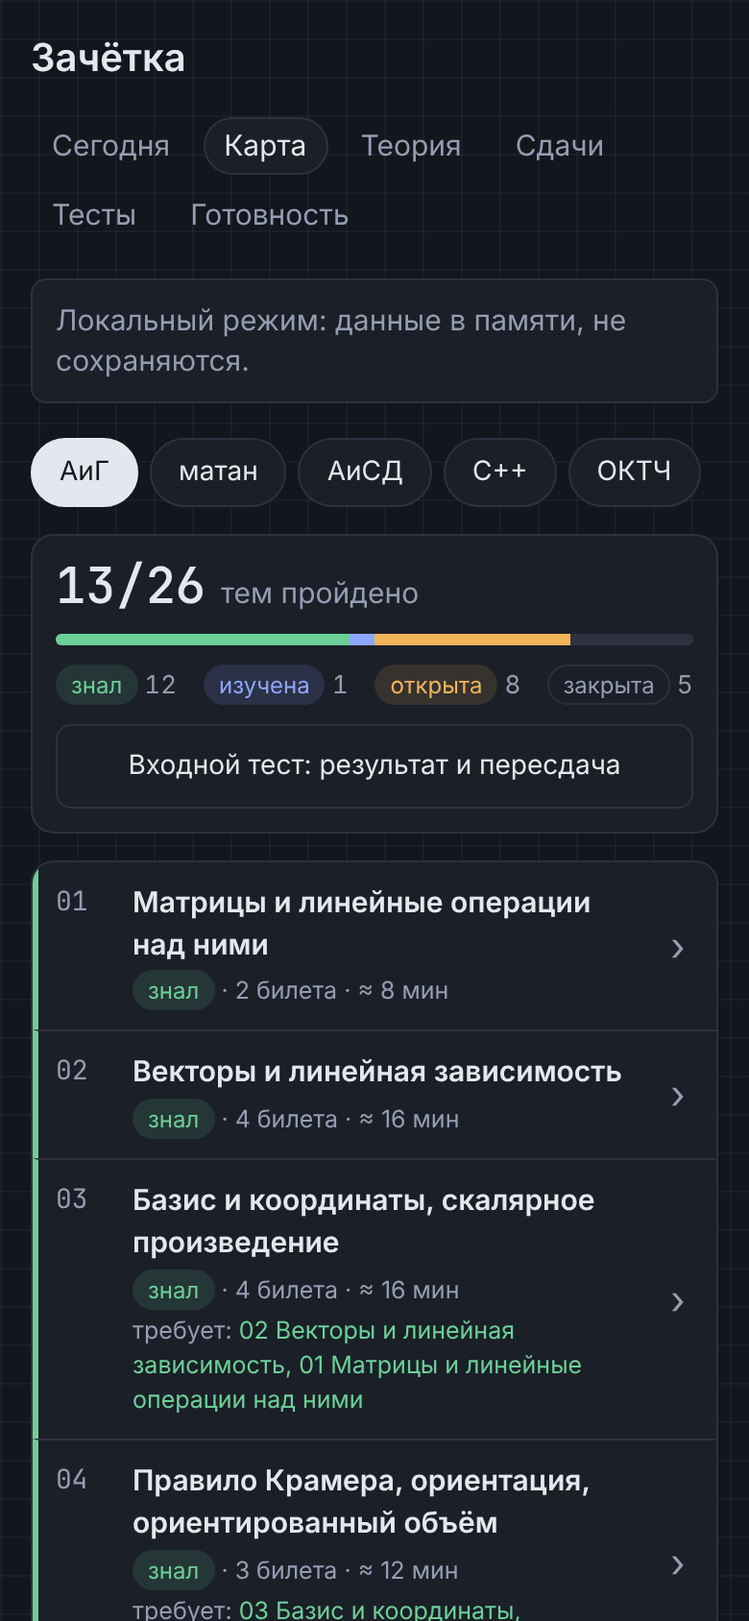
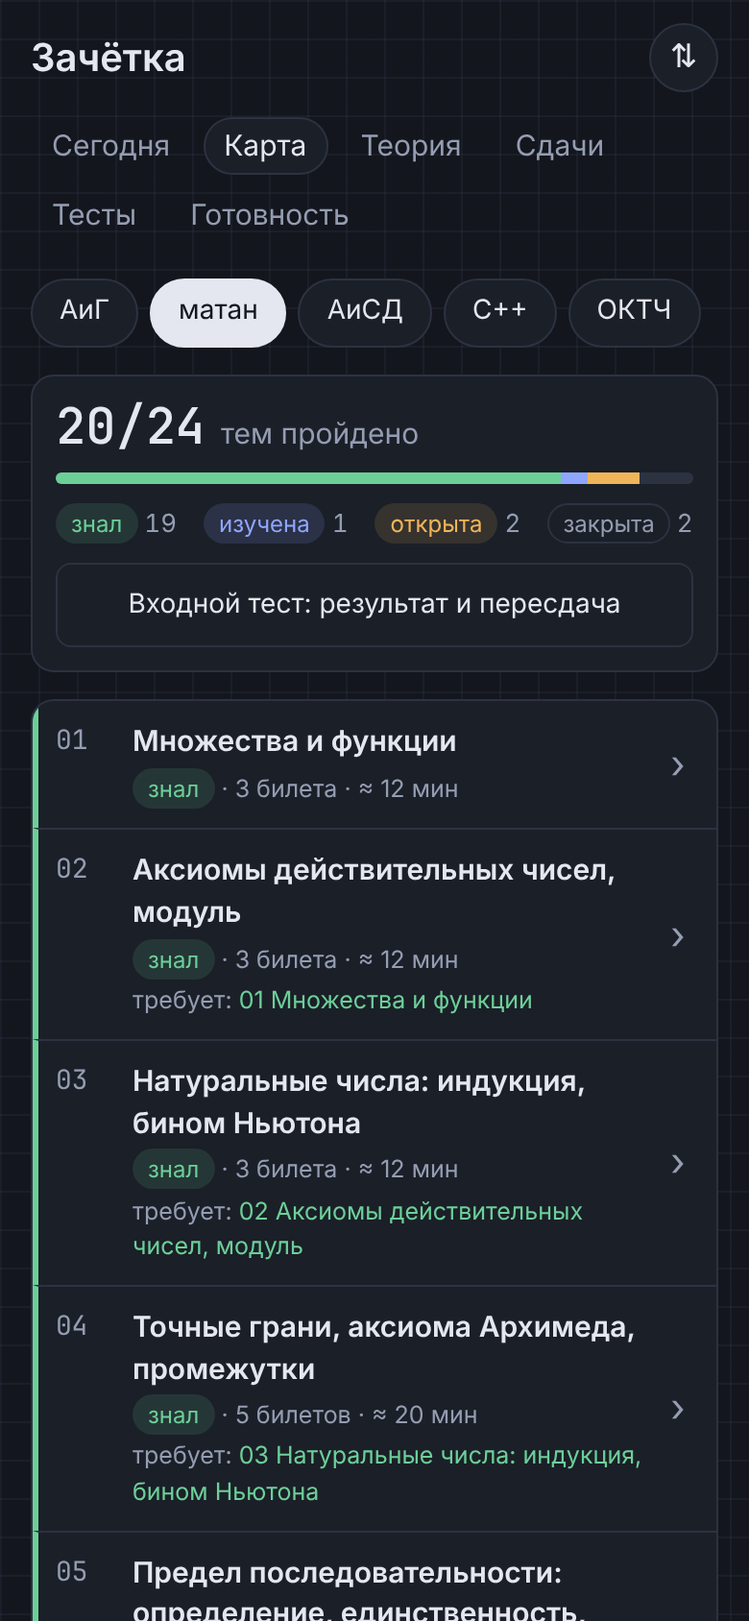
Документы: промпт пакета с графом и пулом, README, CHANGELOG, снимки экрана
Claude-Session: https://claude.ai/code/session_01CMDmwzuscEEjika96w1VCb

diff --git a/docs/pack-prompt.md b/docs/pack-prompt.md
@@ -1,12 +1,12 @@
 # Промпт: файлы пакета из своих материалов любой LLM
 
-Готовый текст для любой модели (ChatGPT, Gemini, DeepSeek, Claude, локальная — неважно): вы даёте ей формат и свои материалы по **одному предмету**, она выдаёт файлы `tickets/`, `cards/`, `tests/`, `items/`, `theory/`. Формат подробно — [pack-format.md](pack-format.md).
+Готовый текст для любой модели (ChatGPT, Gemini, DeepSeek, Claude, локальная — неважно): вы даёте ей формат и свои материалы по **одному предмету**, она выдаёт файлы `tickets/`, `graph/`, `cards/`, `tests/`, `items/`, `theory/`. Формат подробно — [pack-format.md](pack-format.md).
 
 ## Как пользоваться
 
 1. Добавьте предмет в `pack.yaml` своего пакета: `- { id: <id>, name: <название> }` (id — латиница, например `combi`).
 2. Соберите материалы предмета в один текст: программу экзамена (список вопросов), конспект или его часть, список заданий со сроками. Чем точнее программа, тем лучше билеты.
-3. Скопируйте промпт ниже, впишите в начало id пакета и предмета, после него вставьте материалы. Большой конспект лучше давать частями: сначала программа → билеты, потом по нескольку билетов → карточки, тесты и теорию.
+3. Скопируйте промпт ниже, впишите в начало id пакета и предмета, после него вставьте материалы. Большой конспект лучше давать частями: сначала программа → билеты и граф тем, потом по нескольку билетов → карточки, тесты и теорию.
 4. Ответ модели — файлы в виде `=== путь ===` и содержимое. Сохраните каждый в `packs/<пакет>/<путь>`.
 5. `npm run check:pack` — и, если есть ошибки, отправьте их той же модели: «Исправь, выдай только изменённые файлы целиком».
 6. Прочитайте результат сами: модель ошибается в фактах. Эталоны тестов и ответы карточек сверяйте с конспектом.
@@ -18,6 +18,8 @@
 
 Выдай файлы строго в таком виде, без пояснений между ними:
 === tickets/<предмет>.yaml ===
+<содержимое>
+=== graph/<предмет>.yaml ===
 <содержимое>
 === cards/<предмет>/01.md ===
 <содержимое>
@@ -62,26 +64,44 @@ tickets: [<предмет>-t-01, <предмет>-t-02]
 Сформулируйте теорему Лагранжа.
 ---
 Порядок подгруппы конечной группы делит порядок группы.
-Карточка: «## id · билеты», вопрос, строка из трёх дефисов, ответ. Пустая строка между карточками. Билеты — только из tickets/<предмет>.yaml.
+Карточка: «## id · билеты», вопрос, строка из трёх дефисов, ответ. Пустая строка между карточками. Билеты — только из tickets/<предмет>.yaml. У предмета с графом колоду и порядок карточек в Anki задаёт тема первого билета карточки, поле deck остаётся обязательным, но не используется.
 
-4) tests/<предмет>/<имя>.md — тест. Начни с входного теста по всем билетам (kind: entry), по 1–2 вопроса на билет:
+4) graph/<предмет>.yaml — граф тем: что за чем учить. По нему приложение задаёт короткий входной тест, строит план дня и нумерует колоды Anki.
+topics:
+  - id: <предмет>-g-groups
+    title: "Группы: определение и примеры"
+    tickets: [<предмет>-t-01, <предмет>-t-02, <предмет>-t-03]
+  - id: <предмет>-g-lagrange
+    title: "Смежные классы, теорема Лагранжа"
+    tickets: [<предмет>-t-04, <предмет>-t-05]
+    requires: [<предмет>-g-groups]
+- Тема — 3–8 соседних билетов, которые учатся за один присест. Каждый билет предмета стоит ровно в одной теме. Темы пиши в порядке изучения, билеты внутри темы — тоже.
+- requires — id тем (не билетов), без которых эту тему не понять; только прямые зависимости, без циклов. В title нельзя «::».
+- Ребро ставь только там, где тема действительно опирается на другую (пользуется её определением или теоремой). Не ставь ребро «для связности» или потому, что темы идут подряд в программе: по ответу на один вопрос приложение считает известными все темы, от которых зависит тема вопроса, а при плохом ответе — неизвестными все темы, которые зависят от неё. Тема без requires — это нормально.
+
+5) tests/<предмет>/<предмет>-entry.md — входной пул (kind: entry). Это не тест, который проходят подряд: приложение задаёт из него не больше 8 вопросов, выбирая темы по графу. Вопрос относится к теме через свой ticket.
 ---
 id: <предмет>-entry
 title: "<Название> — входной тест"
 kind: entry
-minutes: 60
 ---
 ## <предмет>-q-001
 ticket: <предмет>-t-01 · level: L0
 Дайте определение группы.
 ### Эталон
-- множество с бинарной операцией
-- ассоциативность
-- нейтральный элемент
-- обратный к каждому элементу
-Уровни: L0 — определение или формулировка; L1 — формулировка с условиями, простой пример или следствие; L2 — доказательство (только в тестах kind: ticket или topic). Эталон — 2–6 пунктов «что должно быть в хорошем ответе», каждый проверяется «есть / нет». minutes — примерно 3 минуты на вопрос.
+- множество с ассоциативной бинарной операцией
+- есть нейтральный элемент
+- у каждого элемента есть обратный
+Правила пула:
+- На каждую тему графа — два вопроса (минимум один); вопросы идут в порядке тем.
+- Только L0 и L1. Вопрос — на минуту: одно определение, одна формулировка, «верно ли и почему», идея в одну фразу. Без доказательств и «назовите скелет доказательства».
+- Один вопрос проверяет одно. Без довесков «…и сформулируйте отрицание», «…и приведите пример».
+- Вопрос спрашивает главное в теме, а не мелочь, и на него нельзя хорошо ответить, не зная тем из её requires.
+- Эталон — 2–3 пункта, лучше 3. Ответ засчитан, если отмечено не меньше 60% пунктов: 2 из 3 — да, 1 из 2 — нет. Поэтому каждый пункт должен естественно звучать в верном ответе на вопрос, как он задан; пункт-пояснение, о котором вопрос не спрашивает, в эталон не пиши.
+Остальные тесты — tests/<предмет>/<имя>.md с kind: topic (по теме, поле covers: [билеты], вопросы L0 и L1 на каждый билет) или kind: ticket; у них обязательно поле minutes (2 минуты на L0, 4 на L1, 8 на L2).
+Уровни: L0 — определение или формулировка; L1 — формулировка с условиями, простой пример или следствие; L2 — доказательство (только в тестах kind: ticket или topic). Эталон в этих тестах — 2–6 пунктов «что должно быть в хорошем ответе», каждый проверяется «есть / нет». minutes — примерно 3 минуты на вопрос.
 
-5) theory/<предмет>/NN.md — теория по билетам (для теорем и важных определений):
+6) theory/<предмет>/NN.md — теория по билетам (для теорем и важных определений):
 ## <предмет>-t-02
 ### Формулировка
 Если $H$ — подгруппа конечной группы $G$, то $|H|$ делит $|G|$.
@@ -102,6 +122,8 @@ ticket: <предмет>-t-01 · level: L0
 ## Что проверить руками после модели
 
 - Билеты покрывают всю программу, ничего не склеено и не пропущено.
+- Граф: каждое ребро `requires` — настоящая зависимость, а не «темы идут подряд»; порядок тем в файле — порядок, в котором вы бы их учили.
+- Входной пул: вопросы короткие, по два на тему, без доказательств и довесков; на вопрос с эталоном из двух пунктов верный ответ отмечает оба.
 - Даты и сроки — ровно как в объявлениях курса.
 - Эталоны и ответы карточек верны по конспекту (модель уверенно ошибается в доказательствах).
 - `npm run check:pack` — `ok`.

diff --git a/docs/pack-format.md b/docs/pack-format.md
@@ -119,7 +119,7 @@ topics:
 
 - Обязательны `id`, `title`, `tickets` (не меньше одного билета). Id темы — по общим правилам, уникален во всём пакете; удобно `<предмет>-g-<слово>`.
 - `tickets` — билеты из `tickets/` **этого же** предмета. Если у предмета есть граф, **каждый билет предмета стоит ровно в одной теме**. Порядок билетов — порядок изучения внутри темы.
-- `requires` — id тем (не билетов), только прямые зависимости; можно ссылаться на тему другого предмета. Циклов быть не должно. Необязательно.
+- `requires` — id тем (не билетов), только прямые и только настоящие зависимости (тема пользуется определением или теоремой другой; не «для связности» — по ребру входной тест переносит «знаю» на предков и «не знаю» на потомков); можно ссылаться на тему другого предмета. Циклов быть не должно. Необязательно.
 - `minutes` — сколько минут читать тему; необязательно (по умолчанию 4 минуты на билет).
 - В `title` нельзя `::`.
 - Порядок изучения: тема идёт после всех тем из своего `requires`; при прочих равных — как в файле. Пишите темы в том порядке, в каком их стоит учить.
@@ -175,7 +175,7 @@ ticket: alg-t-01 · level: L0
 - На каждую тему — хотя бы один вопрос, лучше два.
 - Только `level: L0` или `L1`.
 - Вопрос — на минуту: определение, формулировка, «верно ли и почему». Доказательств и «скелетов доказательства» не спрашивать.
-- В эталоне 2–3 пункта.
+- В эталоне 2–3 пункта, лучше 3. Ответ засчитывается при балле от 60%: 2 пункта из 3 — да, 1 из 2 — нет. Поэтому каждый пункт должен естественно звучать в верном ответе на вопрос, как он задан.
 - Один вопрос проверяет одно: без довесков вроде «…и сформулируйте отрицание».
 - Вопрос спрашивает главное в теме, а не мелочь: по одному ответу приложение решает, знакома ли тема целиком.
 

diff --git a/README.md b/README.md
@@ -1,6 +1,6 @@
 # Зачётка (exam-prep-fpmi)
 
-Своя копия трекера подготовки к сессии: сдачи и сроки, тесты, теория по билетам, карта готовности, карточки Anki. Работает на ПК (локальный сервер + вкладка браузера) и на Android (APK). Каждый ведёт свою копию в своём форке; общего сервера и общего прогресса нет.
+Своя копия трекера подготовки к сессии: план на день (повторения в Anki → новая тема → мини-проверка), карта тем с зависимостями, короткий входной тест (до 8 вопросов на предмет), сдачи и сроки, тесты, теория по билетам, карта готовности, карточки Anki. Работает на ПК (локальный сервер + вкладка браузера) и на Android (APK). Каждый ведёт свою копию в своём форке; общего сервера и общего прогресса нет.
 
 В репо уже есть пакет `packs/igor-2026w` — зимняя сессия 2026/27 группы Б05-618 (АиГ, матан, АиСД, C++, ОКТЧ, матлогика). Можно работать прямо в нём или завести свой.
 
@@ -76,7 +76,7 @@ npm run build:local
 Эти части нужны тем, кто ведёт подготовку вместе с агентом (Claude Code и т. п.); без них трекер работает полностью.
 
 - `node tools/agent/diff.ts` — короткий отчёт для агента: что изменилось в прогрессе с прошлой проверки.
-- `node tools/agent/today.ts` — записать план дня в экран «Сегодня».
+- `node tools/agent/today.ts` — записать план и заметку агента и число карточек к повторению в экран «Сегодня» (сам план дня приложение строит по графу тем; план агента показывается под ним свёрнутым блоком «От агента»).
 - `npm run sync` — статусы сдач из открытых таблиц курса, MR и PR. Конфиг личный: `<папка данных>/<пакет>/sync.yaml`, формат — [docs/architecture/12-sync.md](docs/architecture/12-sync.md). Нет файла — синхронизация выключена.
 
 ## Документы

diff --git a/CHANGELOG.md b/CHANGELOG.md
@@ -11,6 +11,9 @@
 - **Входной тест по графу**: не больше 8 вопросов по одному, вопрос делит оставшиеся темы пополам; «Прервать и сохранить» на каждом вопросе, тест можно продолжить; в итоге — какие темы уже известны и с какой начать, отметку темы можно поправить руками (`meta/topics`). В `#tests` у предмета с графом входной тест открывает его вместо линейного прогона.
 - **Карта тем** — новый раздел `#map`: темы предмета по порядку с состоянием (знал / изучена / открыта / закрыта), зависимостями, билетами и действиями (теория, мини-проверка, «уже знаю» / «не знаю»).
 - Колоды Anki по графу: `zachetka::<предмет>::<NN> <тема>`, новые карточки идут в порядке графа. Перед первым импортом старую колоду `zachetka` нужно удалить (история повторений не сохраняется).
+- Шаг «Новая тема» у темы без теории в пакете (например, весь C++) прямо говорит, что делать: разобрать перечисленные билеты по своему конспекту и открыть колоду темы в Anki.
+- Пакет `igor-2026w`: 124 темы (АиГ 27, матан 24, АиСД 23, C++ 26, ОКТЧ 24); входные пулы — 253 вопроса вместо прежних линейных тестов (АиГ 57, матан 48, АиСД 47, C++ 53, ОКТЧ 48), по два и больше на тему.
+- `docs/pack-prompt.md`: промпт для LLM теперь выдаёт `graph/` и входной пул по новым правилам.
 - Сводка агента (`tools/agent/diff.ts`) относит ответы входного теста и мини-проверок (`placement-<предмет>`, `check-<тема>`) к их предмету.
 
 ## v1.1.0 — ПК одним файлом (12.11.2026)
